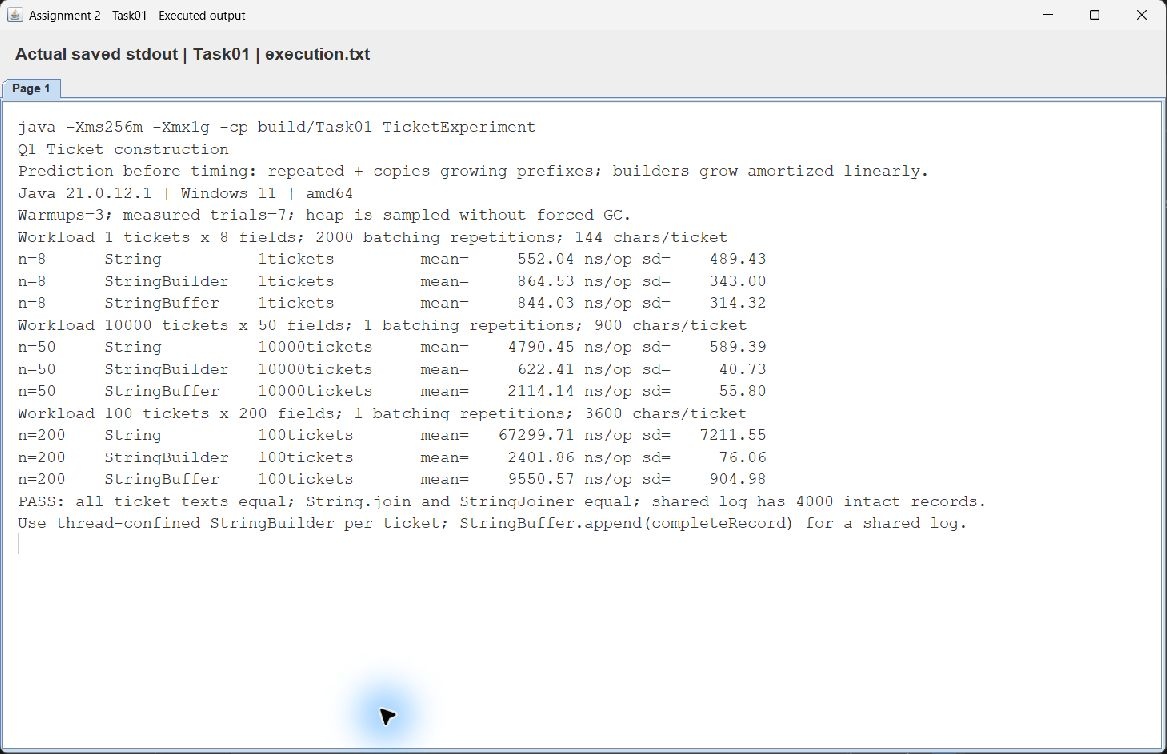
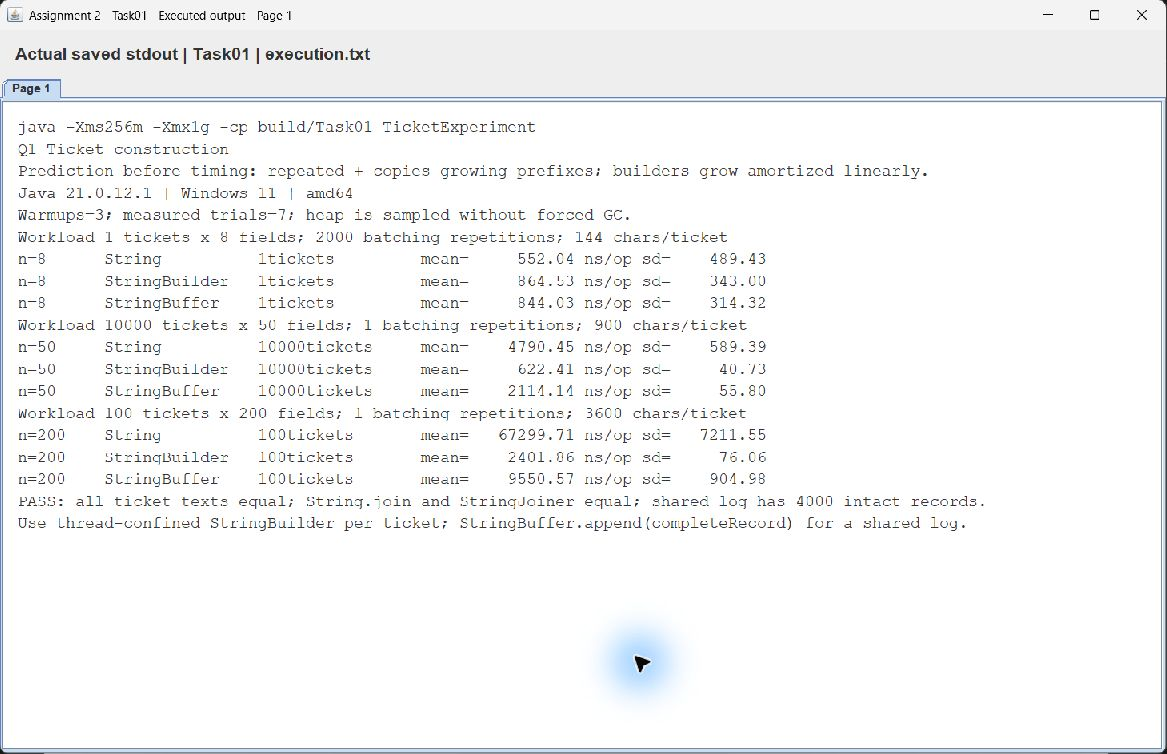
Upload of files for task 7

Changed region(s): [[0.2776, 0.8846, 0.3702, 1.0], [0.4936, 0.8236, 0.5861, 0.9456], [0.2159, 0.0, 0.2468, 0.0305]]

diff --git a/tools/Verify-Submission.py b/tools/Verify-Submission.py
@@ -1,0 +1,137 @@
+from pathlib import Path
+from collections import defaultdict
+import csv
+import math
+import re
+import statistics
+import subprocess
+from PIL import Image
+
+ROOT = Path(__file__).resolve().parent.parent
+log = []
+
+def passed(message):
+    log.append('PASS ' + message)
+    print(log[-1])
+
+def command(arguments, cwd=ROOT):
+    result = subprocess.run(arguments, cwd=cwd, capture_output=True, text=True, encoding='utf-8')
+    if result.returncode:
+        raise AssertionError('Command failed\n' + ' '.join(map(str, arguments)) + '\n' + result.stderr)
+    return result.stdout.strip(), result.stderr.strip()
+
+def csv_rows(path):
+    with path.open(encoding='utf-8-sig', newline='') as source:
+        return list(csv.DictReader(source))
+
+all_sources = list(ROOT.glob('Task*/*.java')) + list((ROOT / 'Task03/before').glob('*.java')) + list((ROOT / 'common').glob('*.java'))
+for source in all_sources:
+    text = source.read_text(encoding='utf-8')
+    code = re.sub(r'"(?:\\.|[^"\\])*"', '""', text)
+    assert not re.search(r'//|/\*|\*/|TODO', code), source
+passed(f'{len(all_sources)} Java source files contain no comments or TODO markers')
+
+for number in range(1, 8):
+    task = ROOT / f'Task{number:02}'
+    output = ROOT / 'build' / 'verification' / task.name
+    output.mkdir(parents=True, exist_ok=True)
+    sources = [ROOT / 'common/Bench.java', *task.glob('*.java')]
+    _, warnings = command(['javac', '--release', '17', '-Xlint:all', '-d', str(output), *map(str, sources)])
+    compile_log = warnings + ('\n' if warnings else '') + 'Compilation successful with --release 17 and -Xlint:all.\n'
+    (task / 'compilation.txt').write_text(compile_log, encoding='utf-8')
+    passed(f'{task.name} freshly compiled for Java 17')
+
+expected = {
+    (3, 'Attendance'): 'Unique students: 2',
+    (5, 'LeaderboardDemo'): '[Eagles(9,6), Bisons(9,4), Panthers(9,4), Cobras(6,1)]',
+    (6, 'Triage'): 'Meena(S1) Kumar(S1) Lata(S2) Ravi(S3) John(S3) Asha(S5)',
+}
+for (number, program), text in expected.items():
+    output, _ = command(['java', '-cp', str(ROOT / 'build/verification' / f'Task{number:02}'), program])
+    assert output == text, (program, output)
+    passed(f'{program} fresh execution matches the supplied expected output exactly')
+
+before_build = ROOT / 'build/verification/before'
+before_build.mkdir(parents=True, exist_ok=True)
+command(['javac', '--release', '17', '-d', str(before_build), str(ROOT / 'Task03/before/Attendance.java')])
+before_output, _ = command(['java', '-cp', str(before_build), 'Attendance'])
+assert before_output == 'Unique students: 3', before_output
+passed('Before-correction Attendance independently reproduced Unique students: 3')
+
+timing_groups = 0
+timing_trials = 0
+screenshots = 0
+for number in range(1, 8):
+    task = ROOT / f'Task{number:02}'
+    for name in ('Answer.md', 'execution.txt', 'input.properties', 'raw.csv', 'compilation.txt'):
+        assert (task / name).is_file() and (task / name).stat().st_size > 0, (task, name)
+    transcript = (task / 'execution.txt').read_text(encoding='utf-8-sig')
+    assert 'PASS' in transcript, task
+    assert 'Exception in thread' not in transcript and 'AssertionError' not in transcript, task
+    lines = transcript.splitlines()
+    while lines and not lines[-1].strip():
+        lines.pop()
+    expected_pages = math.ceil(len(lines) / 24)
+    pages = sorted(task.glob('Output_Page*.png'))
+    assert len(pages) >= expected_pages, (task, len(pages), expected_pages)
+    for page in pages:
+        with Image.open(page) as image:
+            assert image.width >= 1000 and image.height >= 650, page
+            image.verify()
+    screenshots += len(pages)
+    raw = csv_rows(task / 'raw.csv')
+    if number == 3:
+        assert len(raw) == 35
+        for row in raw:
+            assert row['predicted_size'] == row['actual_size']
+        grouped = defaultdict(list)
+        for row in raw:
+            grouped[row['test']].append(row)
+        with (task / 'summary.csv').open('w', newline='', encoding='utf-8') as destination:
+            writer = csv.writer(destination)
+            writer.writerow(['test', 'trials', 'predicted_size', 'observed_size', 'all_match'])
+            for test, trials in grouped.items():
+                assert len(trials) == 7
+                writer.writerow([test, len(trials), trials[0]['predicted_size'], trials[0]['actual_size'], True])
+        passed('Task03 all 35 predicted-size observations match')
+        continue
+    groups = defaultdict(list)
+    cross_checksums = defaultdict(set)
+    for row in raw:
+        groups[(row['size'], row['structure'], row['operation'])].append(row)
+        cross_checksums[(row['size'], row['operation'])].add(row['checksum'])
+        assert int(row['total_ns']) > 0 and int(row['operations']) > 0
+        assert math.isclose(int(row['total_ns']) / int(row['operations']), float(row['ns_per_op']), abs_tol=1e-5)
+    for checksums in cross_checksums.values():
+        assert len(checksums) == 1, (task, checksums)
+    summaries = csv_rows(task / 'summary.csv')
+    assert len(groups) == len(summaries)
+    for summary in summaries:
+        trials = groups[(summary['size'], summary['structure'], summary['operation'])]
+        assert sorted(int(row['trial']) for row in trials) == list(range(1, 8))
+        samples = [int(row['total_ns']) / int(row['operations']) for row in trials]
+        assert math.isclose(statistics.mean(samples), float(summary['mean_ns_per_op']), abs_tol=1e-4)
+        assert math.isclose(statistics.stdev(samples), float(summary['sd_ns_per_op']), abs_tol=1e-4)
+        assert math.isclose(min(samples), float(summary['min_ns_per_op']), abs_tol=1e-4)
+        assert math.isclose(max(samples), float(summary['max_ns_per_op']), abs_tol=1e-4)
+        timing_trials += len(trials)
+        timing_groups += 1
+    passed(f'{task.name} raw trials, summary statistics, checksums and screenshot coverage verified')
+
+order_checks = csv_rows(ROOT / 'Task04/order_checks.csv')
+assert len(order_checks) == 9 and all(row['code_order_ok'] == 'true' and row['insertion_order_ok'] == 'true' for row in order_checks)
+ranking_checks = csv_rows(ROOT / 'Task05/correctness.csv')
+assert len(ranking_checks) == 7 and all(row['chain_laws_hold'] == 'true' and row['subtraction_laws_hold'] == 'false' for row in ranking_checks)
+redesign = csv_rows(ROOT / 'Task07/operation_counts.csv')
+for row in redesign:
+    expected_sorts = 30 if row['structure'] == 'Original' or row['update_every'] == '1' else (1 if row['update_every'] == '0' else 3)
+    assert int(row['sorts']) == expected_sorts
+passed('Map order checks, ranking fault detection and redesign invalidation counts verified')
+
+tracked, _ = command(['git', 'ls-files'])
+assert not any(path.startswith('docs/') or path.endswith(('.docx', '.pdf')) for path in tracked.splitlines())
+ignored, _ = command(['git', 'check-ignore', 'docs/Assignment2_Answers.docx', 'docs/Assignment2_Answers.pdf'])
+assert len(ignored.splitlines()) == 2
+passed('Local DOCX and PDF are ignored and absent from Git tracking')
+passed(f'Total evidence verified: {timing_groups} timing groups, {timing_trials} measured trials, {screenshots} screenshots')
+(ROOT / 'verification.txt').write_text('\n'.join(log) + '\n', encoding='utf-8')

diff --git a/README.md b/README.md
@@ -1,0 +1,92 @@
+# Java Programming Assignment 2
+
+Name: R SARVESH
+
+Register number: 192521143
+
+Repository: https://github.com/192521143simats-sketch/CSA09-192521143-Assignment2
+
+Java used: Oracle JDK 21.0.12.1 on Windows 11 amd64, compiled with `--release 17`. A JDK 17 or later is required. Java programs have no external dependencies.
+
+## Tasks and recorded results
+
+| Task | Entry points | Result |
+| --- | --- | --- |
+| Q1 | TicketExperiment | Three text-building methods produced equal tickets. At 50 fields, StringBuilder averaged 622.41 ns/ticket and repeated + 4790.45 ns/ticket. The shared log retained 4000 complete records. |
+| Q2 | PlaylistExperiment | Three playlist sizes exposed the cost of array shifting and linked-list indexed traversal. All edit-order, iteration and Up Next checks passed. |
+| Q3 | Attendance, AttendanceExperiment | The supplied program reported 3 students before the correction and 2 afterward. Reused references, deliberately distinct hashes, mutation and alternative structures were tested. |
+| Q4 | InventoryExperiment | All map reports matched both required orders at three sizes. All tested maps met the predeclared mean lookup criterion. |
+| Q5 | LeaderboardDemo, RankingExperiment | The expected ranking matched exactly. Overflow and incomplete tie-breakers were detected. Comparator, Comparable and stable-sort alternatives agreed. |
+| Q6 | Triage, TriageExperiment | The supplied treatment order matched exactly. Eight-patient hand ordering, FIFO ties, growth counts, alternative queues and aging checks passed. |
+| Q7 | RankingRedesign | All cached results matched the original. Unchanged data reduced 30 sorts to 1, while updates invalidated the cache correctly. |
+
+## Structure
+
+Each `Task01` through `Task07` contains its Java sources, deterministic input files, `Answer.md`, `execution.txt`, `raw.csv`, and genuine output screenshots named `Output_PageNN.png`. Timing tasks also contain `summary.csv` with mean, sample standard deviation, minimum and maximum. Additional operation counts and correctness records are stored beside the sources. Task03 includes the original uncorrected program in `before/`.
+
+`common/Bench.java` provides the same measurement method for all timing tasks. It performs three warmup batches followed by seven recorded trials. Preparation happens outside the timer. A volatile checksum consumes timed results. Heap readings are sampled without forcing garbage collection. They are used-heap observations and do not count total allocations. Each task's answer states its operation unit and limitations.
+
+`common/EvidenceViewer.java` displays the actual saved program stdout in numbered pages. The PNGs are native Windows screenshots of that viewer. It labels the source as saved stdout. The text comes from actual Java executions recorded in `execution.txt`, and the raw trials remain available for independent checking. Screenshots are supporting evidence alongside repeated measurements and operation counts.
+
+The local `docs/` folder holds the DOCX, PDF and their rendering tools. That folder and all DOCX/PDF files are ignored by Git, as requested.
+
+## Compile and execute every task
+
+From the repository root in PowerShell, run
+
+```powershell
+powershell -ExecutionPolicy Bypass -File .\tools\Run-All.ps1
+```
+
+This compiles every task independently and runs all 10 main entry points, plus the before-correction Attendance program. It recreates raw data and execution transcripts. New measurements will differ from this recorded run. Refresh the answer tables, reports and screenshots when adopting a new set of results.
+
+To compile and run an individual task, use its entry points from the task table.
+
+```powershell
+.\tools\Run-Task.ps1 -Task 1 -Programs TicketExperiment
+.\tools\Run-Task.ps1 -Task 2 -Programs PlaylistExperiment
+.\tools\Run-Task.ps1 -Task 3 -Programs Attendance,AttendanceExperiment
+.\tools\Run-Task.ps1 -Task 4 -Programs InventoryExperiment
+.\tools\Run-Task.ps1 -Task 5 -Programs LeaderboardDemo,RankingExperiment
+.\tools\Run-Task.ps1 -Task 6 -Programs Triage,TriageExperiment
+.\tools\Run-Task.ps1 -Task 7 -Programs RankingRedesign
+```
+
+For a manual example, compile Q5 from the repository root and run from its task folder so its input paths resolve.
+
+```powershell
+New-Item -ItemType Directory -Force build\Task05 | Out-Null
+javac --release 17 -d build\Task05 common\Bench.java Task05\*.java
+Push-Location Task05
+java -Xms256m -Xmx1g -cp ..\build\Task05 LeaderboardDemo
+java -Xms256m -Xmx1g -cp ..\build\Task05 RankingExperiment
+Pop-Location
+```
+
+Task03's intentional broken equals/hashCode classes produce expected compiler warnings. Q5's supplied package-private classes produce auxiliary-class warnings when reused by its experiment. Successful compilation does not imply an absence of these deliberately retained warnings.
+
+## View an output transcript
+
+```powershell
+New-Item -ItemType Directory -Force build\viewer | Out-Null
+javac --release 17 -d build\viewer common\EvidenceViewer.java
+java -cp build\viewer EvidenceViewer Task02\execution.txt 1
+```
+
+The last argument chooses the initially selected page. Every screenshot page is saved in the corresponding task folder.
+
+## Verify the submission
+
+Python 3 with Pillow is required only for the evidence-verification helper. Run
+
+```powershell
+python tools\Verify-Submission.py
+```
+
+This recompiles every source, checks the supplied program outputs, validates seven-trial statistics and cross-implementation checksums, confirms task evidence and screenshot coverage, and checks Git tracking for excluded documents. It does not overwrite the saved benchmark measurements. The recorded result is in `verification.txt`.
+
+## History and measurement scope
+
+The history contains seven actual task-completion commits followed by verification and reproducibility changes. Commit timestamps represent the real work performed. No historical student activity is reconstructed.
+
+Measurements describe this machine and these generated inputs. Fixed method order, JIT compilation, garbage collection and other system activity can influence timing. Mean and sample deviation are reported together, with deterministic operation counts used where available. Detailed comparisons, Big-O analysis, predictions and engineering decisions are in each task's `Answer.md`. The programs and evidence should be reviewed and understood before an assessment discussion.

diff --git a/Task01/Answer.md b/Task01/Answer.md
@@ -4,6 +4,21 @@ Prediction before implementation. String is immutable. Each loop concatenation m
 
 The three workloads use identical 18-character fields including the newline. The first is one short ticket with 8 fields, batched 2,000 times to improve timing resolution. The second is 10,000 tickets with 50 fields each. The additional workload is 100 long tickets with 200 fields each. fields.txt contains the actual fields, and workloads.csv records ticket counts, field counts and batches. Setup occurs before timing. Each method has three warmup batches and seven recorded trials. A volatile checksum consumes the generated lengths. These are exploratory measurements in one JVM, with fixed method order, rather than a statistically controlled production benchmark.
 
+The three implementations append the same fields and newline separators.
+
+```java
+String text = "";
+for (String field : fields) text = text + field + "\n";
+
+StringBuilder builder = new StringBuilder();
+for (String field : fields) builder.append(field).append('\n');
+String built = builder.toString();
+
+StringBuffer buffer = new StringBuffer();
+for (String field : fields) buffer.append(field).append('\n');
+String buffered = buffer.toString();
+```
+
 | Tickets per workload | Fields | String ns/ticket mean ± SD | StringBuilder ns/ticket mean ± SD | StringBuffer ns/ticket mean ± SD |
 | --- | --- | --- | --- | --- |
 | 1 | 8 | 552.04 ± 489.43 | 864.53 ± 343.00 | 844.03 ± 314.32 |

diff --git a/Task03/Answer.md b/Task03/Answer.md
@@ -18,6 +18,28 @@ A key's stored entry does not move when the key changes. In this test A and B pr
 
 The corrected supplied class keeps regNo final, compares regNo in equals, and returns regNo.hashCode() in hashCode. The name is deliberately excluded from both because registration determines identity. The supplied class assumes a non-null registration. Production input validation should reject null or blank registrations before construction. The experiments verified reflexivity, symmetry, transitivity, rejection of null and another type, equal hashes for equal registrations, and successful lookup using a new equal object. A different name with the same registration remained equal. Seven repetitions reproduced all predicted sizes in raw.csv.
 
+```java
+class Student {
+    private final String regNo;
+    private final String name;
+    Student(String regNo, String name) {
+        this.regNo = regNo;
+        this.name = name;
+    }
+    @Override public boolean equals(Object o) {
+        if (this == o) return true;
+        if (!(o instanceof Student)) return false;
+        return regNo.equals(((Student) o).regNo);
+    }
+    @Override public int hashCode() {
+        return regNo.hashCode();
+    }
+    @Override public String toString() {
+        return regNo + " " + name;
+    }
+}
+```
+
 The alternative solutions were also executed.
 
 ```java
